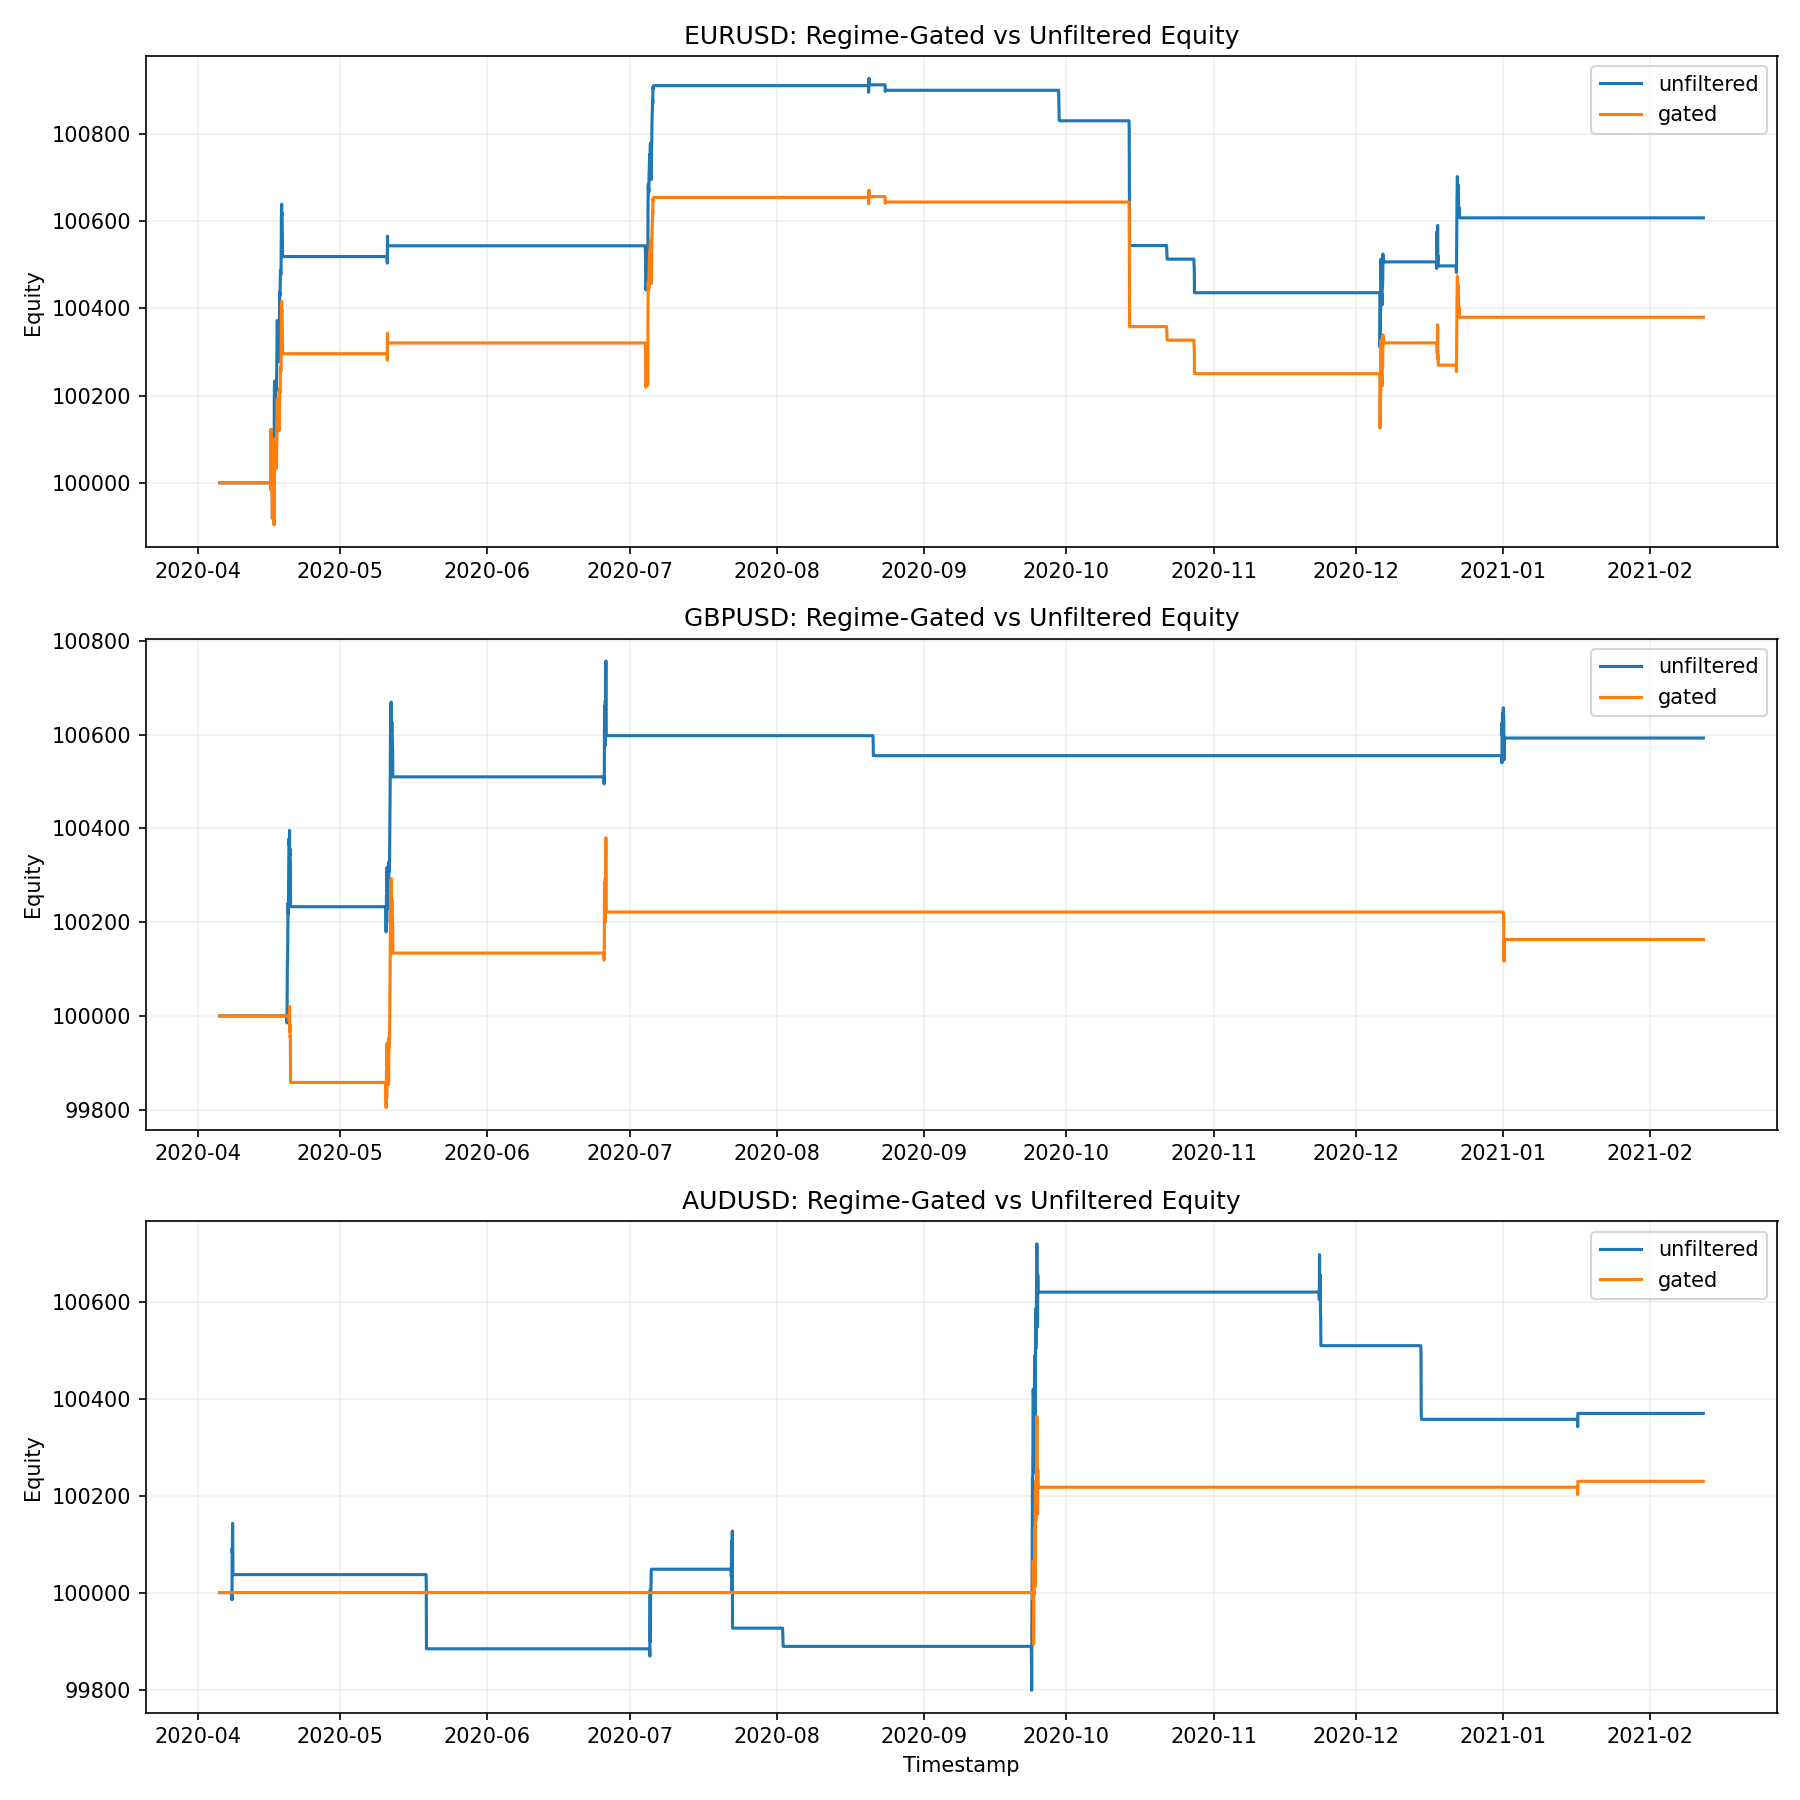
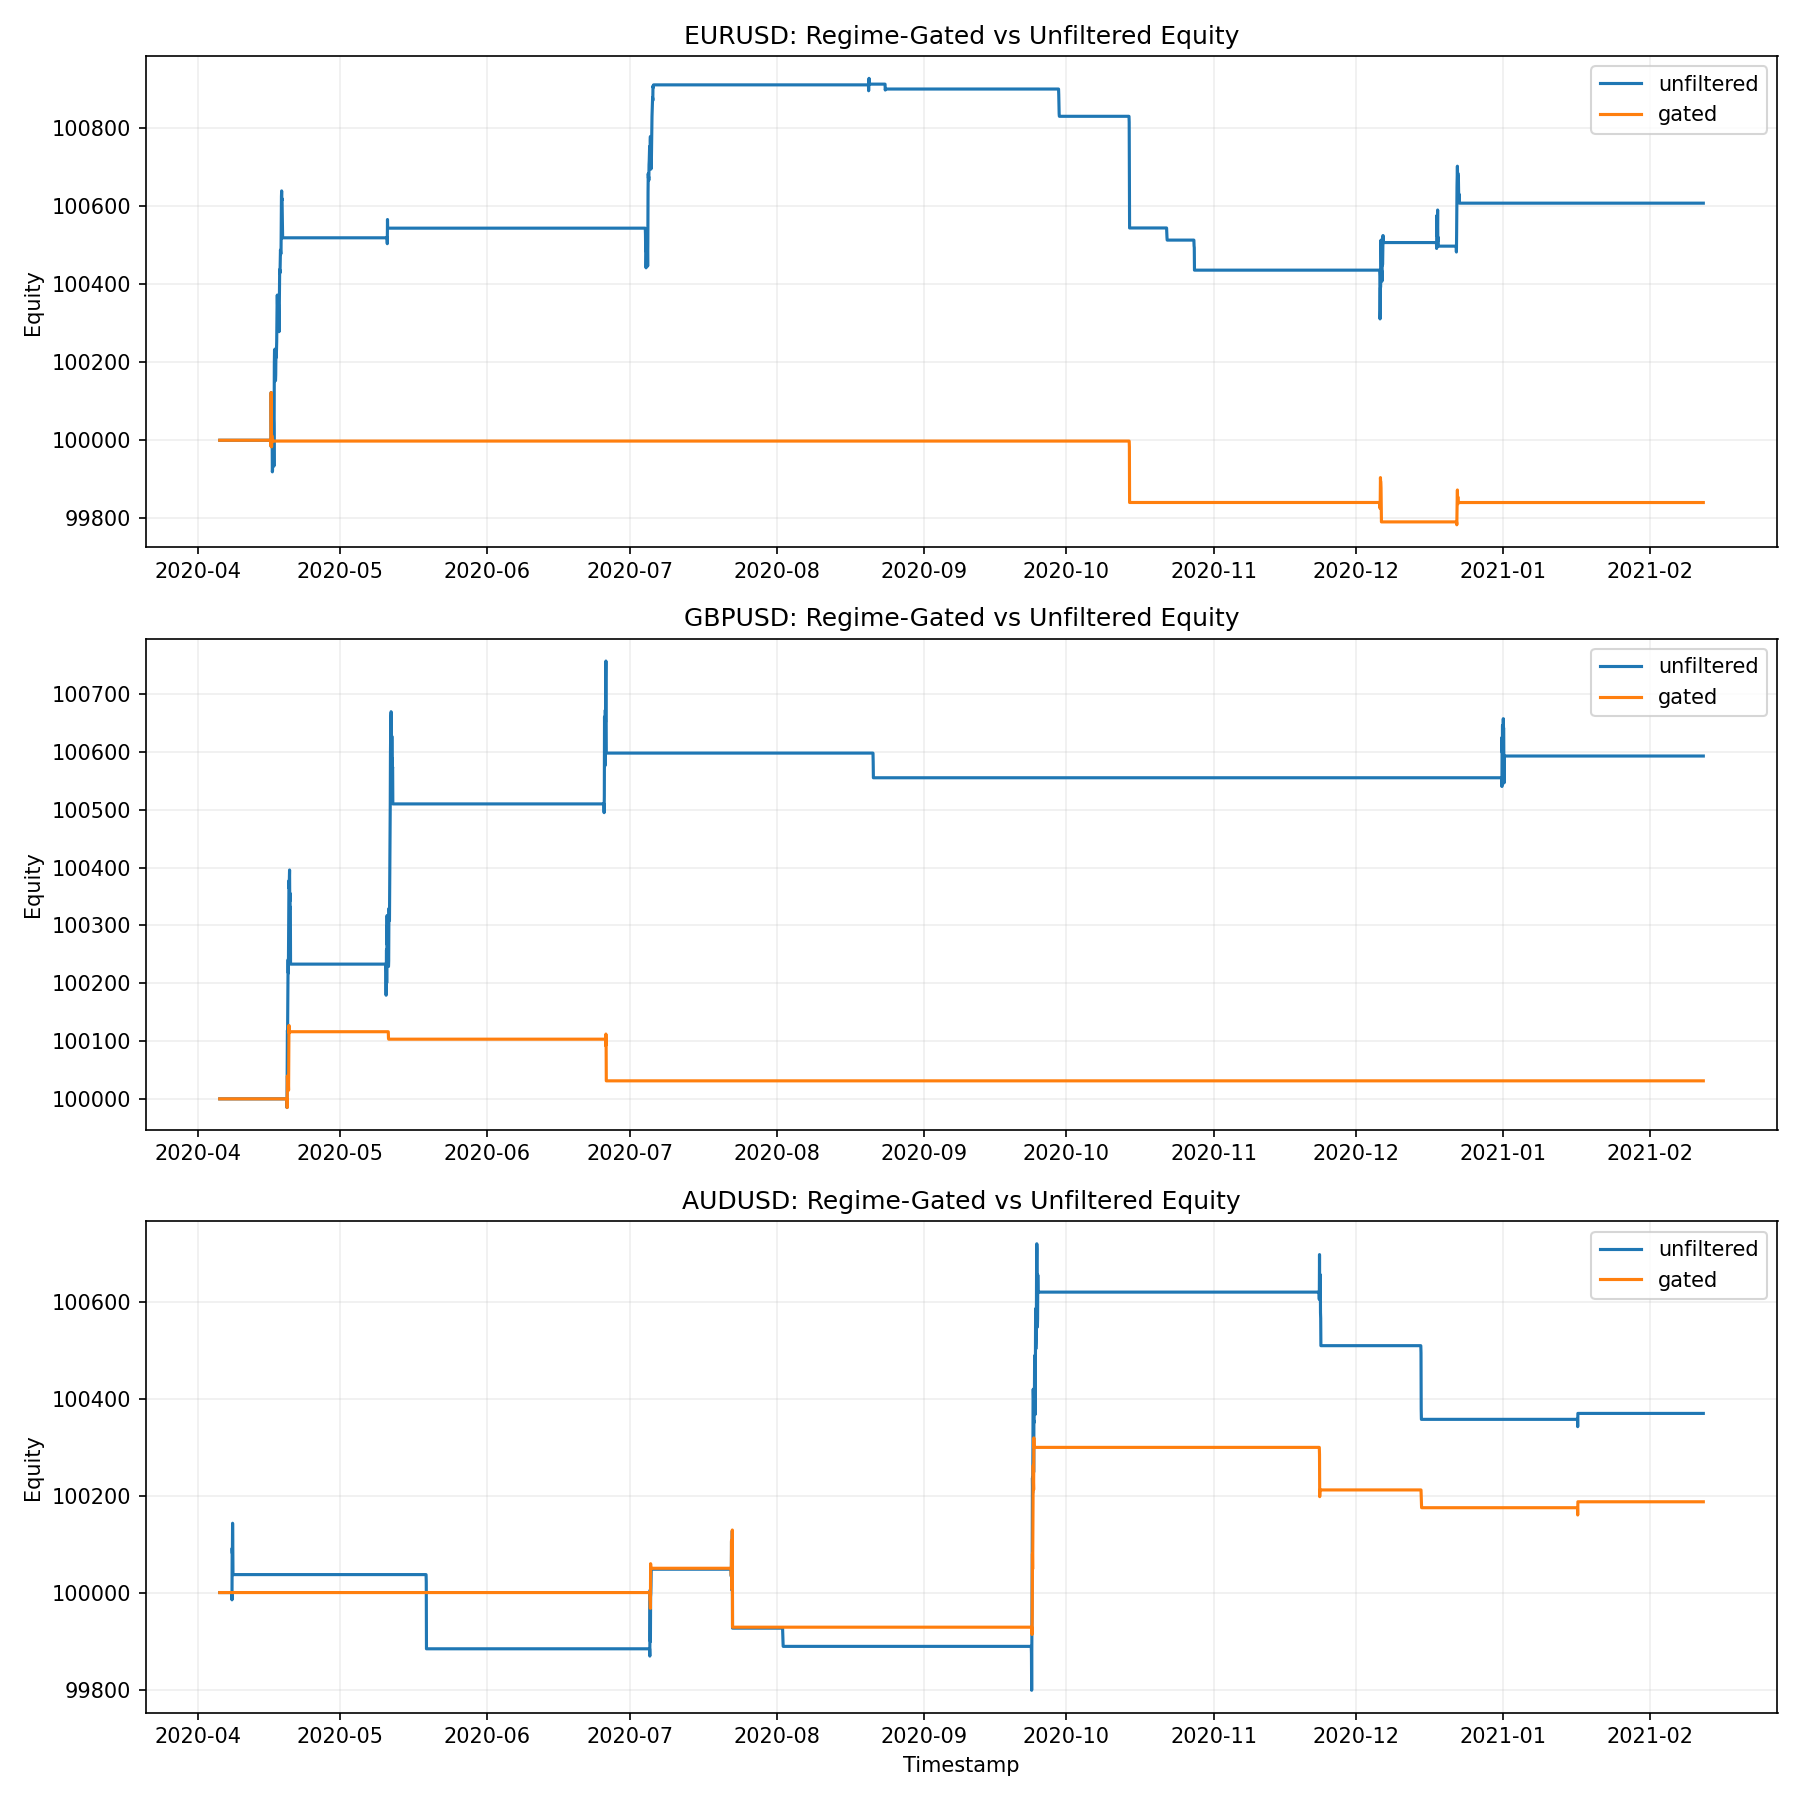
Switch to state-based regime gating and add diagnostics

diff --git a/research/regime_gated_runner.py b/research/regime_gated_runner.py
@@ -24,6 +24,7 @@ TIMEFRAME_TO_PERIODS = {"H1": 24 * 252, "H4": 6 * 252, "D1": 252}
 class RegimeGatedArtifacts:
     comparison: pd.DataFrame
     fold_results: pd.DataFrame
+    state_filter_diagnostics: pd.DataFrame
     equity_plot_path: Path
 
 
@@ -197,42 +198,57 @@ def _prepare_symbol_frame(
     return df.dropna(subset=req).reset_index(drop=True)
 
 
-def apply_regime_filter(df: pd.DataFrame, params: dict[str, Any]) -> pd.Series:
+def apply_state_based_filter(df: pd.DataFrame, params: dict[str, Any]) -> tuple[pd.Series, pd.DataFrame]:
     """
-    Bar-level no-lookahead regime gate.
+    State-based regime gate:
+      COMPRESSION -> EXPANSION -> EMERGING TREND
 
-    ALLOW when:
-      - rolling avg ADX > threshold_adx OR
-      - rolling pct(ADX > adx_gt_level) > threshold_pct
-    and optionally:
-      - trend_variance_ratio > threshold (constant or expanding median split).
+    Allow only when:
+      - adx_slope > adx_slope_threshold
+      - atr_ratio > atr_expansion_threshold
+      - pct_recent_low_vol > compression_threshold
+
+    All rolling/shifted features are computed from information up to current bar.
     """
     adx = pd.to_numeric(df.get("adx_14"), errors="coerce")
-    tvr = pd.to_numeric(df.get("trend_variance_ratio"), errors="coerce")
+    atr_norm = pd.to_numeric(df.get("atr_norm"), errors="coerce")
+    atr_pct_rank = pd.to_numeric(df.get("atr_norm_pct_rank"), errors="coerce")
 
-    adx_window = int(params.get("regime_adx_window", 48))
-    adx_gt_level = float(params.get("regime_adx_gt_level", 25.0))
-    threshold_adx = float(params.get("regime_threshold_adx", 25.0))
-    threshold_pct = float(params.get("regime_threshold_pct", 0.30))
-    use_tvr = bool(params.get("regime_use_trend_variance_filter", True))
-    tvr_min_periods = int(params.get("regime_tvr_min_periods", 80))
-    tvr_threshold_param = params.get("regime_trend_variance_threshold")
+    adx_slope_window = int(params.get("adx_slope_window", 5))
+    atr_expansion_window = int(params.get("atr_expansion_window", 20))
+    compression_window = int(params.get("compression_window", 20))
 
-    rolling_avg_adx = adx.rolling(adx_window, min_periods=max(10, adx_window // 3)).mean()
-    rolling_pct_adx_gt = (adx > adx_gt_level).astype(float).rolling(
-        adx_window, min_periods=max(10, adx_window // 3)
+    adx_slope_threshold = float(params.get("adx_slope_threshold", 0.0))
+    atr_expansion_threshold = float(params.get("atr_expansion_threshold", 1.05))
+    compression_threshold = float(params.get("compression_threshold", 0.2))
+    low_vol_percentile = float(params.get("low_vol_percentile", 0.3))
+
+    adx_slope = adx - adx.shift(adx_slope_window)
+    atr_roll_mean = atr_norm.rolling(
+        atr_expansion_window, min_periods=max(5, atr_expansion_window // 3)
+    ).mean()
+    atr_ratio = atr_norm / atr_roll_mean.replace(0.0, np.nan)
+    pct_recent_low_vol = (atr_pct_rank < low_vol_percentile).astype(float).rolling(
+        compression_window, min_periods=max(5, compression_window // 3)
     ).mean()
 
-    allow = (rolling_avg_adx > threshold_adx) | (rolling_pct_adx_gt > threshold_pct)
-    if use_tvr:
-        if tvr_threshold_param is None:
-            # Median split with expanding history only (shifted => no lookahead).
-            tvr_threshold = tvr.expanding(min_periods=tvr_min_periods).median().shift(1)
-        else:
-            tvr_threshold = pd.Series(float(tvr_threshold_param), index=df.index, dtype=float)
-        allow = allow & (tvr > tvr_threshold)
+    allow = (
+        (adx_slope > adx_slope_threshold)
+        & (atr_ratio > atr_expansion_threshold)
+        & (pct_recent_low_vol > compression_threshold)
+    )
+    allow = allow.fillna(False).astype(bool)
 
-    return allow.fillna(False).astype(bool)
+    diagnostics = pd.DataFrame(
+        {
+            "adx_slope": adx_slope,
+            "atr_ratio": atr_ratio,
+            "pct_recent_low_vol": pct_recent_low_vol,
+            "state_allow": allow.astype(int),
+        },
+        index=df.index,
+    )
+    return allow, diagnostics
 
 
 def _annualized_sharpe(returns: pd.Series, timeframe: str) -> float:
@@ -345,6 +361,7 @@ def run_regime_gated_evaluation(
 
     all_fold_rows: list[dict[str, Any]] = []
     comparison_rows: list[dict[str, Any]] = []
+    state_diag_rows: list[dict[str, Any]] = []
     symbol_equity: dict[str, dict[str, pd.Series]] = {}
 
     for symbol in symbols:
@@ -371,8 +388,39 @@ def run_regime_gated_evaluation(
                 continue
 
             raw_signal = trend_breakout_v2_signals(test_df, hardened_params).astype(float)
-            gate_mask = apply_regime_filter(test_df, gating_params)
+            gate_mask, state_diag = apply_state_based_filter(test_df, gating_params)
             gated_signal = raw_signal.where(gate_mask, 0.0)
+
+            entries_total = float(((raw_signal != 0) & (raw_signal.shift(1).fillna(0) == 0)).sum())
+            entries_allowed = float(
+                (
+                    (raw_signal != 0)
+                    & (raw_signal.shift(1).fillna(0) == 0)
+                    & gate_mask
+                ).sum()
+            )
+            entries_filtered = max(entries_total - entries_allowed, 0.0)
+            allowed_trade_pct = (entries_allowed / entries_total) if entries_total > 0 else 0.0
+            filtered_trade_pct = (entries_filtered / entries_total) if entries_total > 0 else 0.0
+            state_diag_rows.append(
+                {
+                    "symbol": symbol,
+                    "fold_id": fold_id,
+                    "fold_test_start": test_start,
+                    "fold_test_end": test_end,
+                    "entries_total": entries_total,
+                    "entries_allowed": entries_allowed,
+                    "entries_filtered": entries_filtered,
+                    "allowed_trade_pct": allowed_trade_pct,
+                    "filtered_trade_pct": filtered_trade_pct,
+                    "allowed_bar_pct": float(gate_mask.mean()),
+                    "mean_adx_slope": _safe_float(state_diag["adx_slope"].mean(), default=np.nan),
+                    "mean_atr_ratio": _safe_float(state_diag["atr_ratio"].mean(), default=np.nan),
+                    "mean_pct_recent_low_vol": _safe_float(
+                        state_diag["pct_recent_low_vol"].mean(), default=np.nan
+                    ),
+                }
+            )
 
             variant_signals = {"unfiltered": raw_signal, "gated": gated_signal}
             for variant, signal in variant_signals.items():
@@ -463,24 +511,30 @@ def run_regime_gated_evaluation(
     comparison = pd.DataFrame(comparison_rows).sort_values(
         ["symbol", "variant"]
     ).reset_index(drop=True)
+    state_filter_diagnostics = pd.DataFrame(state_diag_rows).sort_values(
+        ["symbol", "fold_id"]
+    ).reset_index(drop=True)
 
     comparison_csv = out_dir / "regime_gated_comparison.csv"
     fold_csv = out_dir / "regime_gated_fold_results.csv"
+    state_diag_csv = out_dir / "state_filter_diagnostics.csv"
     plot_path = out_dir / "regime_gated_equity.png"
     comparison.to_csv(comparison_csv, index=False)
     fold_results.to_csv(fold_csv, index=False)
+    state_filter_diagnostics.to_csv(state_diag_csv, index=False)
     _plot_regime_gated_equity(symbol_equity, plot_path)
 
     return RegimeGatedArtifacts(
         comparison=comparison,
         fold_results=fold_results,
+        state_filter_diagnostics=state_filter_diagnostics,
         equity_plot_path=plot_path,
     )
 
 
 __all__ = [
     "RegimeGatedArtifacts",
-    "apply_regime_filter",
+    "apply_state_based_filter",
     "run_regime_gated_evaluation",
 ]
 

diff --git a/run_regime_gated_evaluation.py b/run_regime_gated_evaluation.py
@@ -16,10 +16,13 @@ def _build_parser() -> argparse.ArgumentParser:
     parser.add_argument("--use-hardened-default", action="store_true")
     parser.add_argument("--source-csv", default=None)
 
-    parser.add_argument("--threshold-adx", type=float, default=25.0)
-    parser.add_argument("--threshold-pct", type=float, default=0.3)
-    parser.add_argument("--use-trend-variance", action="store_true")
-    parser.add_argument("--trend-variance-threshold", type=float, default=None)
+    parser.add_argument("--adx-slope-window", type=int, default=5)
+    parser.add_argument("--adx-slope-threshold", type=float, default=0.0)
+    parser.add_argument("--atr-expansion-threshold", type=float, default=1.05)
+    parser.add_argument("--compression-threshold", type=float, default=0.2)
+    parser.add_argument("--atr-expansion-window", type=int, default=20)
+    parser.add_argument("--compression-window", type=int, default=20)
+    parser.add_argument("--low-vol-percentile", type=float, default=0.3)
     return parser
 
 
@@ -37,10 +40,13 @@ def main() -> None:
         use_hardened_default=args.use_hardened_default,
         source_csv=args.source_csv,
         gating_params={
-            "threshold_adx": args.threshold_adx,
-            "threshold_pct": args.threshold_pct,
-            "use_trend_variance": args.use_trend_variance,
-            "trend_variance_threshold": args.trend_variance_threshold,
+            "adx_slope_window": args.adx_slope_window,
+            "adx_slope_threshold": args.adx_slope_threshold,
+            "atr_expansion_threshold": args.atr_expansion_threshold,
+            "compression_threshold": args.compression_threshold,
+            "atr_expansion_window": args.atr_expansion_window,
+            "compression_window": args.compression_window,
+            "low_vol_percentile": args.low_vol_percentile,
         },
     )
 
@@ -51,7 +57,8 @@ def main() -> None:
         "Outputs: "
         f"{args.output_dir}/regime_gated_comparison.csv, "
         f"{args.output_dir}/regime_gated_fold_results.csv, "
-        f"{args.output_dir}/regime_gated_equity.png"
+        f"{args.output_dir}/regime_gated_equity.png, "
+        f"{args.output_dir}/state_filter_diagnostics.csv"
     )
 
 
